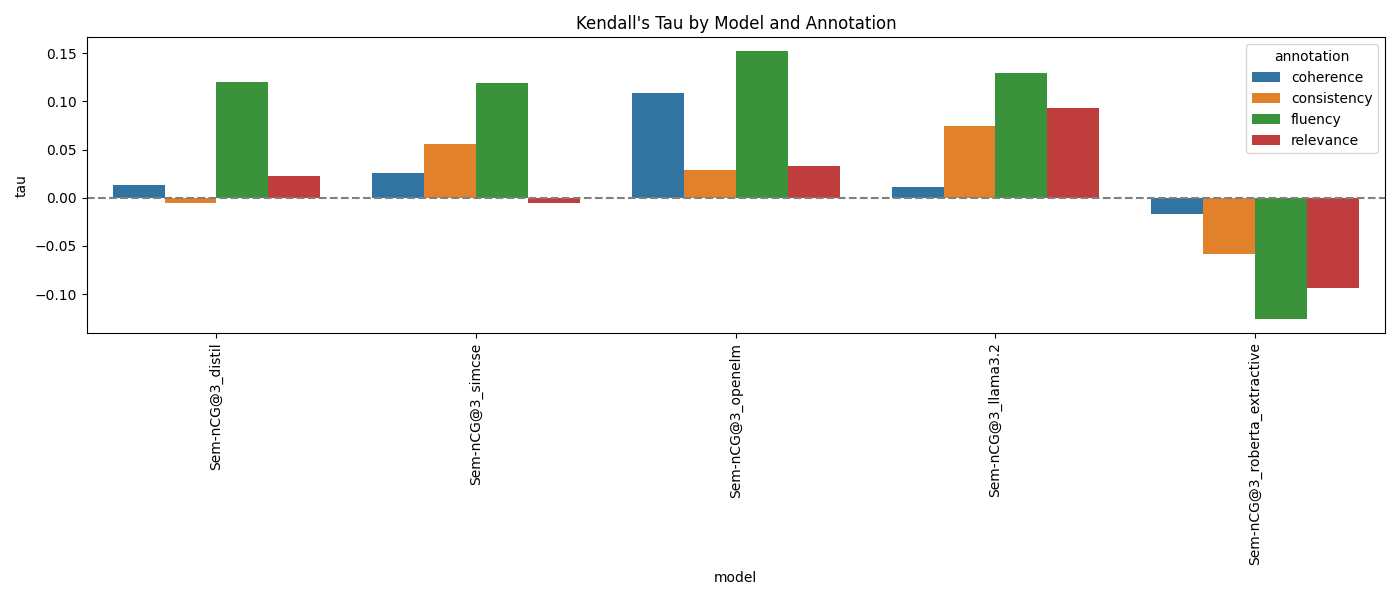
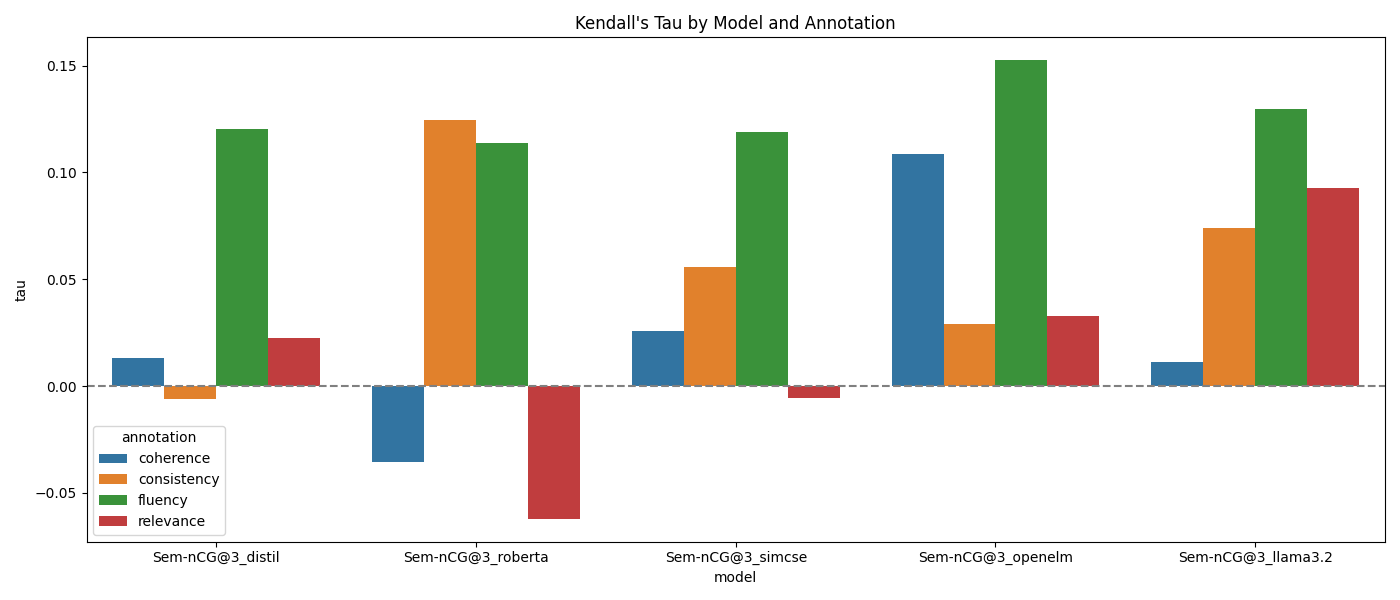
improved visualizations

diff --git a/src/evaluate_results.py b/src/evaluate_results.py
@@ -9,7 +9,7 @@ df = pd.read_csv('output/score.csv')
 selected_models = [
     'Sem-nCG@3_distil',
     'Sem-nCG@3_simcse',
-    'Sem-nCG@3_roberta_extractive',
+    'Sem-nCG@3_roberta',
     'Sem-nCG@3_openelm',
     'Sem-nCG@3_llama3.2'
 ]
@@ -67,7 +67,7 @@ kendall_df = pd.read_csv('output/kendall_results.csv')
 selected_models = [
     'Sem-nCG@3_distil',
     'Sem-nCG@3_simcse',
-    'Sem-nCG@3_roberta_extractive',
+    'Sem-nCG@3_roberta',
     'Sem-nCG@3_openelm',
     'Sem-nCG@3_llama3.2'
 ]
@@ -85,8 +85,8 @@ plt.close()
 
 
 plt.figure(figsize=(14, 6))
-sns.barplot(data=kendall_df_selected, x="model", y="tau", hue="annotation")
-plt.xticks(rotation=90)
+ax = sns.barplot(data=kendall_df_selected, x="model", y="tau", hue="annotation")
+# plt.xticks(rotation=90)
 plt.title("Kendall's Tau by Model and Annotation")
 plt.axhline(0, color='gray', linestyle='--')
 plt.tight_layout()
@@ -109,8 +109,9 @@ plt.savefig('output/kendall_scatter_sig_plot.png')
 plt.close()
 
 
+palette = sns.color_palette("Set2", len(kendall_df_selected["model"].unique()))
 g = sns.FacetGrid(kendall_df_selected, col="annotation", col_wrap=2, height=4, sharey=True)
-g.map_dataframe(sns.barplot, x="tau", y="model", hue="model", order=kendall_df_selected["model"].unique())
+g.map_dataframe(sns.barplot, x="tau", y="model", hue="model", order=kendall_df_selected["model"].unique(), palette=palette)
 g.set_titles("{col_name}")
 g.fig.subplots_adjust(top=0.9)
 g.fig.suptitle("Kendall’s Tau per Annotation Type", fontsize=16)
